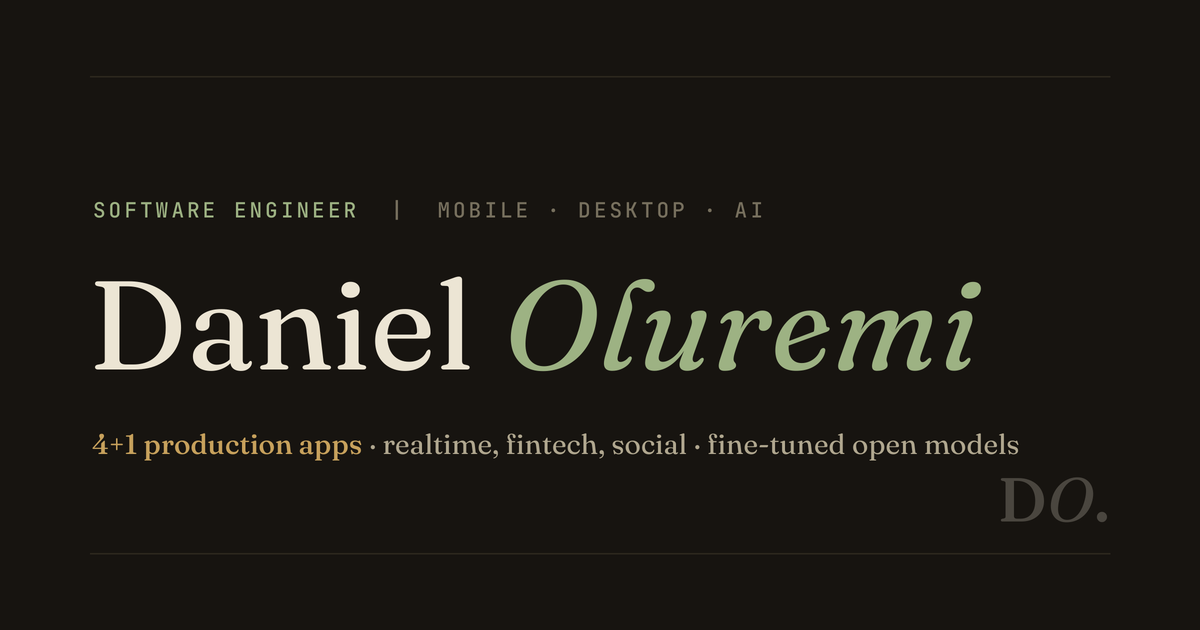
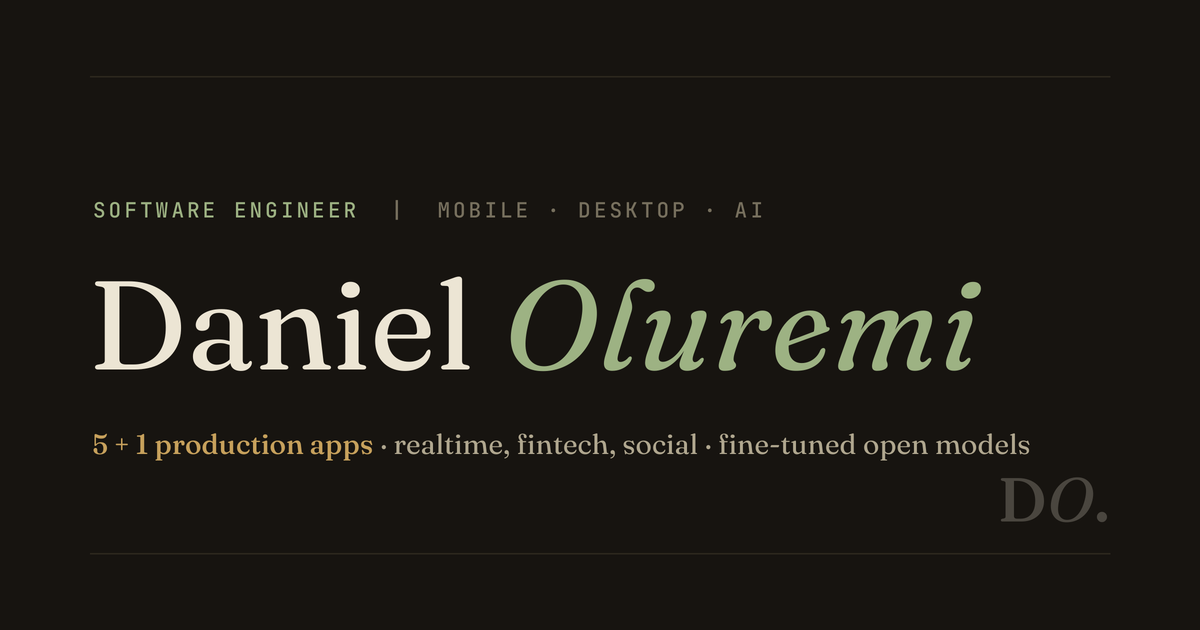
Sync from portfolio

Changed region(s): [[0.0617, 0.6937, 0.8633, 0.7238]]

diff --git a/index.html b/index.html
@@ -6,7 +6,7 @@
   <title>Daniel Oluremi - Software Engineer | Mobile, Desktop &amp; AI</title>
   <meta name="description" content="Daniel Oluremi is a software engineer building production mobile apps, desktop apps, and fine-tuned language models. First-class Computer Science graduate.">
   <meta property="og:title" content="Daniel Oluremi - Software Engineer | Mobile, Desktop &amp; AI">
-  <meta property="og:description" content="4 + 1 production apps. Fine-tuned models with a published dataset. Products people rely on.">
+  <meta property="og:description" content="5 + 1 production apps. Fine-tuned models with a published dataset. Products people rely on.">
   <meta property="og:type" content="website">
   <!-- Official URL: daniel-py.github.io (LinkedIn blocklists pages.dev). If a custom domain is added later, update these URLs to it. -->
   <link rel="canonical" href="https://daniel-py.github.io/">
@@ -95,7 +95,7 @@
         </p>
         <dl class="hero-facts">
           <div><dt>Apps worked on</dt><dd>10+</dd></div>
-          <div><dt>Shipped to production</dt><dd>4 + 1</dd></div>
+          <div><dt>Shipped to production</dt><dd>5 + 1</dd></div>
           <div><dt>Downloads across stores</dt><dd>7k+</dd></div>
           <div><dt>Mobile dev experience</dt><dd>4 years, and counting</dd></div>
           <div><dt>Open-source projects</dt><dd>7 - six plugins, one dataset</dd></div>
@@ -308,23 +308,44 @@
         </div>
       </article>
 
+      <!-- 07 · Cloutt -->
+      <article class="case reveal">
+        <div class="case-media">
+          <div class="rail" tabindex="0" role="group" aria-label="Cloutt store screenshots - scroll horizontally">
+            <img src="assets/img/cloutt-1.webp" alt="Going live to followers from the Cloutt stream screen" width="405" height="720" loading="lazy" decoding="async">
+            <img src="assets/img/cloutt-2.webp" alt="Discover feed of creators, trending videos, and live streams" width="405" height="720" loading="lazy" decoding="async">
+            <img src="assets/img/cloutt-3.webp" alt="Creator profile with followers, gallery, and highlights" width="405" height="720" loading="lazy" decoding="async">
+            <img src="assets/img/cloutt-4.webp" alt="Direct messaging between creators and followers" width="405" height="720" loading="lazy" decoding="async">
+            <img src="assets/img/cloutt-5.webp" alt="Creator wallet showing gift earnings, top-ups, and withdrawals" width="405" height="720" loading="lazy" decoding="async">
+          </div>
+        </div>
+        <div class="case-body">
+          <p class="case-no" aria-hidden="true">07</p>
+          <h3>Cloutt</h3>
+          <p class="case-role">Mobile App Developer at Eleven36 · 2025 - 2026</p>
+          <p class="case-desc">
+            A creator platform: live streaming with AR face filters, a
+            virtual-gift economy, realtime chat, and in-app video editing. I
+            built core features across its live-streaming and monetization
+            stack.
+          </p>
+          <ul class="case-points">
+            <li>AR-filtered live streaming - DeepAR frames piped into Agora RTC through the bridge plugins I built and open-sourced (below)</li>
+            <li>Creator monetization end to end: virtual gifts in-stream, wallet top-ups, and withdrawals</li>
+            <li>Realtime chat and presence over Socket.IO, plus camera capture, filters, trimming and compression in-app</li>
+          </ul>
+          <p class="case-stats"><strong>Live on Google Play</strong></p>
+          <p class="case-tags"><span>Flutter</span><span>Agora&nbsp;RTC</span><span>DeepAR</span><span>Socket.IO</span><span>Firebase</span></p>
+          <p class="case-links">
+            <a href="https://play.google.com/store/apps/details?id=com.cloutt.app" target="_blank" rel="noopener">Google Play ↗</a>
+          </p>
+        </div>
+      </article>
+
       <!-- In the works · Eleven36 -->
       <div class="building">
         <p class="eyebrow reveal">In the works - at <a href="https://eleven36hq.com" target="_blank" rel="noopener">Eleven36</a>, since Dec 2025</p>
         <div class="ai-grid">
-          <article class="ai-card reveal">
-            <h3>Cloutt</h3>
-            <p>
-              A creator platform nearing launch: live streaming with AR face
-              filters, running on the DeepAR-to-Agora plugins I built and
-              open-sourced (below) - a
-              virtual-gift economy with wallet top-ups and withdrawals, realtime
-              chat and presence over Socket.IO, and a full in-app video editing
-              pipeline. I build core features across its live-streaming and
-              monetization stack.
-            </p>
-            <p class="case-tags"><span>Flutter</span><span>Agora&nbsp;RTC</span><span>DeepAR</span><span>Socket.IO</span><span>Firebase</span></p>
-          </article>
           <article class="ai-card reveal">
             <h3>SecuRent</h3>
             <p>
